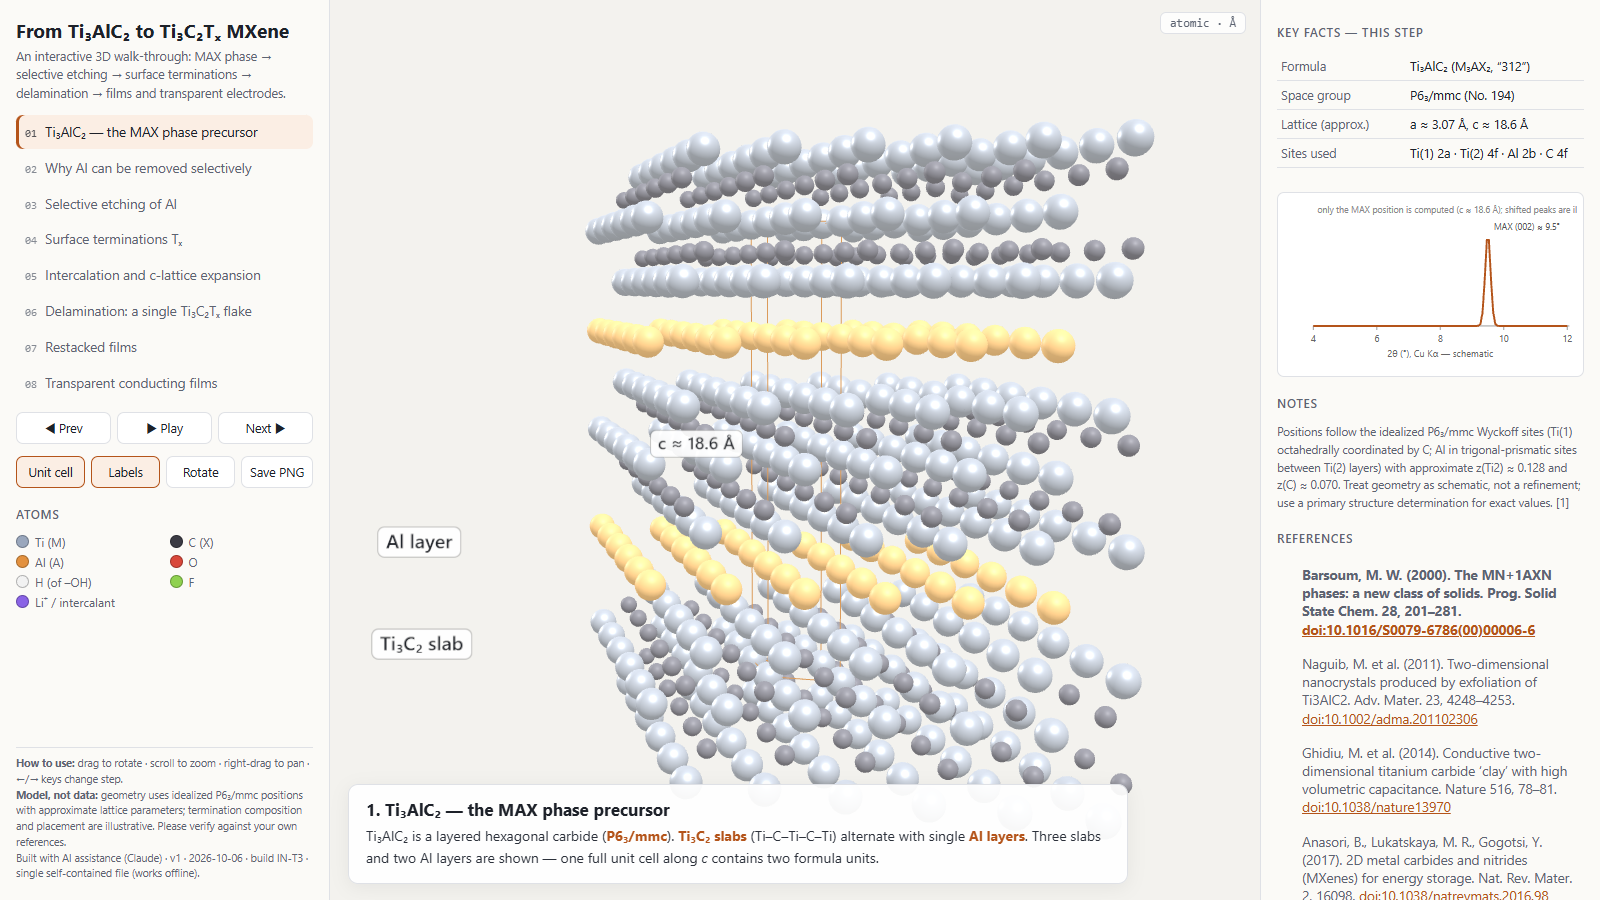
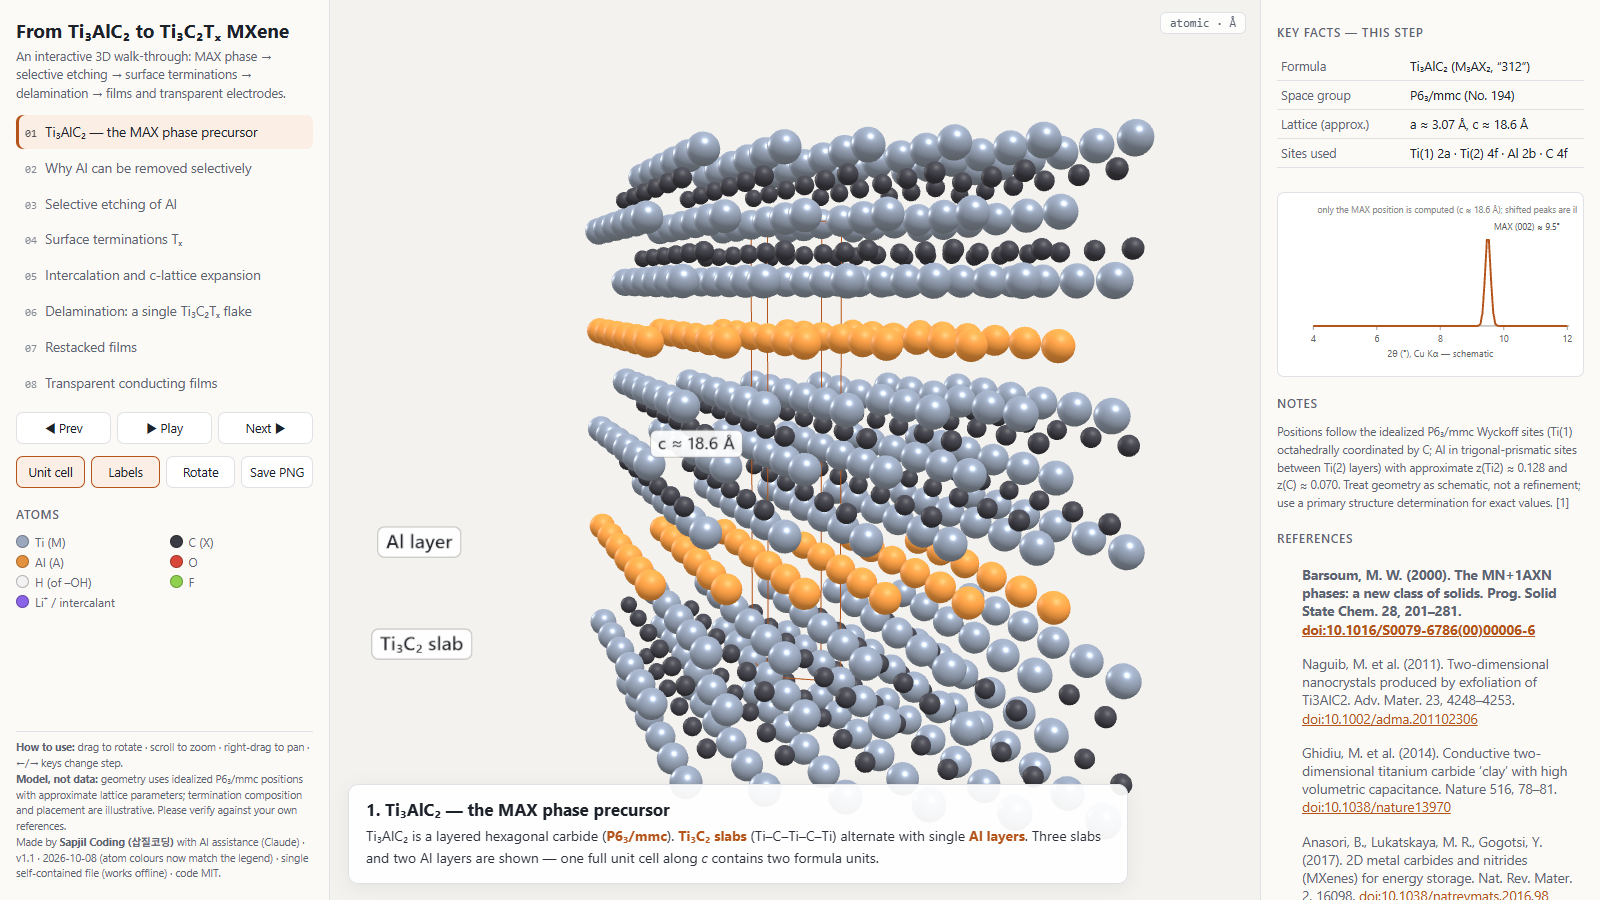
v1.1: atom colours in the 3D view now match the legend
three.js r147 treated the legend sRGB hex colours as linear values and then
re-encoded them on output, so every atom rendered paler than its legend
swatch (Al orange looked pale yellow, C near-black looked mid-grey).
Turn on three.js colour management (ColorManagement.legacyMode = false).
No geometry or text changed. Preview image re-rendered; README notes the change.

Claude-Session: https://claude.ai/code/session_016PVBkJiwVLaCjGnQVfhAxX

Changed region(s): [[0.3438, 0.1244, 0.7188, 0.8711], [0.0, 0.8089, 0.1875, 0.9956]]

diff --git a/index.html b/index.html
@@ -76,7 +76,7 @@ body.video .brand{display:block}
     <footer>
       <b>How to use:</b> drag to rotate · scroll to zoom · right-drag to pan · ←/→ keys change step.<br>
       <b>Model, not data:</b> geometry uses idealized P6₃/mmc positions with approximate lattice parameters; termination composition and placement are illustrative. Please verify against your own references.<br>
-      Made by <b>Sapjil Coding (삽질코딩)</b> with AI assistance (Claude) · v1 · 2026-10-06 · single self-contained file (works offline) · code MIT.
+      Made by <b>Sapjil Coding (삽질코딩)</b> with AI assistance (Claude) · v1.1 · 2026-10-08 (atom colours now match the legend) · single self-contained file (works offline) · code MIT.
     </footer>
   </aside>
   <main>
@@ -1209,6 +1209,10 @@ body.video .brand{display:block}
 // Units in the atomic scene: 1 = 1 Å. Crystal c-axis -> three.js +y.
 (function () {
   "use strict";
+  // 2026-10-08 fix: with r147's default legacy colour mode the sRGB hex codes below were treated as linear values and
+  // then re-encoded to sRGB on output, so every atom rendered paler than its legend swatch (Al orange -> pale yellow,
+  // C near-black -> mid grey). Switching legacy mode off makes THREE.Color convert hex sRGB -> linear, so 3D == legend.
+  if (THREE.ColorManagement) THREE.ColorManagement.legacyMode = false;
   const VIDEO = /[?&]video/.test(location.search);
   if (VIDEO) document.body.classList.add("video");
   // ---------------- crystallography (idealized, approximate) ----------------

diff --git a/src/template.html b/src/template.html
@@ -76,7 +76,7 @@ body.video .brand{display:block}
     <footer>
       <b>How to use:</b> drag to rotate · scroll to zoom · right-drag to pan · ←/→ keys change step.<br>
       <b>Model, not data:</b> geometry uses idealized P6₃/mmc positions with approximate lattice parameters; termination composition and placement are illustrative. Please verify against your own references.<br>
-      Made by <b>Sapjil Coding (삽질코딩)</b> with AI assistance (Claude) · v1 · 2026-10-06 · single self-contained file (works offline) · code MIT.
+      Made by <b>Sapjil Coding (삽질코딩)</b> with AI assistance (Claude) · v1.1 · 2026-10-08 (atom colours now match the legend) · single self-contained file (works offline) · code MIT.
     </footer>
   </aside>
   <main>

diff --git a/src/app.js b/src/app.js
@@ -2,6 +2,10 @@
 // Units in the atomic scene: 1 = 1 Å. Crystal c-axis -> three.js +y.
 (function () {
   "use strict";
+  // 2026-10-08 fix: with r147's default legacy colour mode the sRGB hex codes below were treated as linear values and
+  // then re-encoded to sRGB on output, so every atom rendered paler than its legend swatch (Al orange -> pale yellow,
+  // C near-black -> mid grey). Switching legacy mode off makes THREE.Color convert hex sRGB -> linear, so 3D == legend.
+  if (THREE.ColorManagement) THREE.ColorManagement.legacyMode = false;
   const VIDEO = /[?&]video/.test(location.search);
   if (VIDEO) document.body.classList.add("video");
   // ---------------- crystallography (idealized, approximate) ----------------

diff --git a/README.md b/README.md
@@ -30,6 +30,9 @@ Each step has a key-facts panel, equations, a schematic chart and numbered refer
 ## Honest limits
 This is a teaching model, not a structure refinement. Lattice parameters and z-coordinates are approximate. The O/OH/F mix and placement are illustrative. Gaps between layers are exaggerated for visibility. Flake sizes and film views are schematic.
 
+## Changes
+- **v1.1 (2026-10-08)** — atom colours in the 3D view now match the legend. three.js r147 was treating the legend hex colours as linear values, so every atom rendered paler (Al orange looked pale yellow, C near-black looked mid-grey). Fixed by turning on three.js colour management; no geometry or text changed.
+
 ## Source
 `src/app.js` (scene + content) and `src/template.html` (layout) → `python build.py` → `index.html`.
 Code: MIT. References: see [REFERENCES.md](REFERENCES.md).
